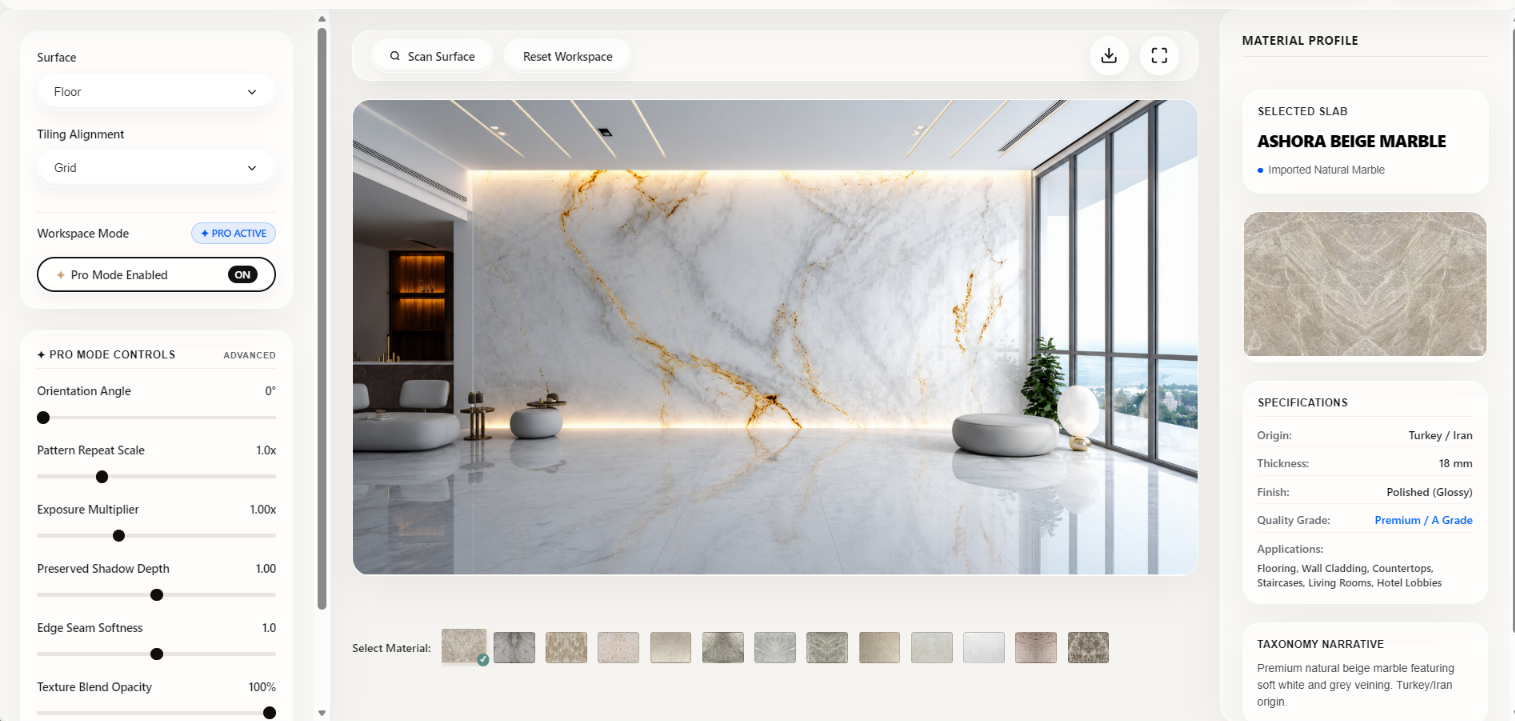
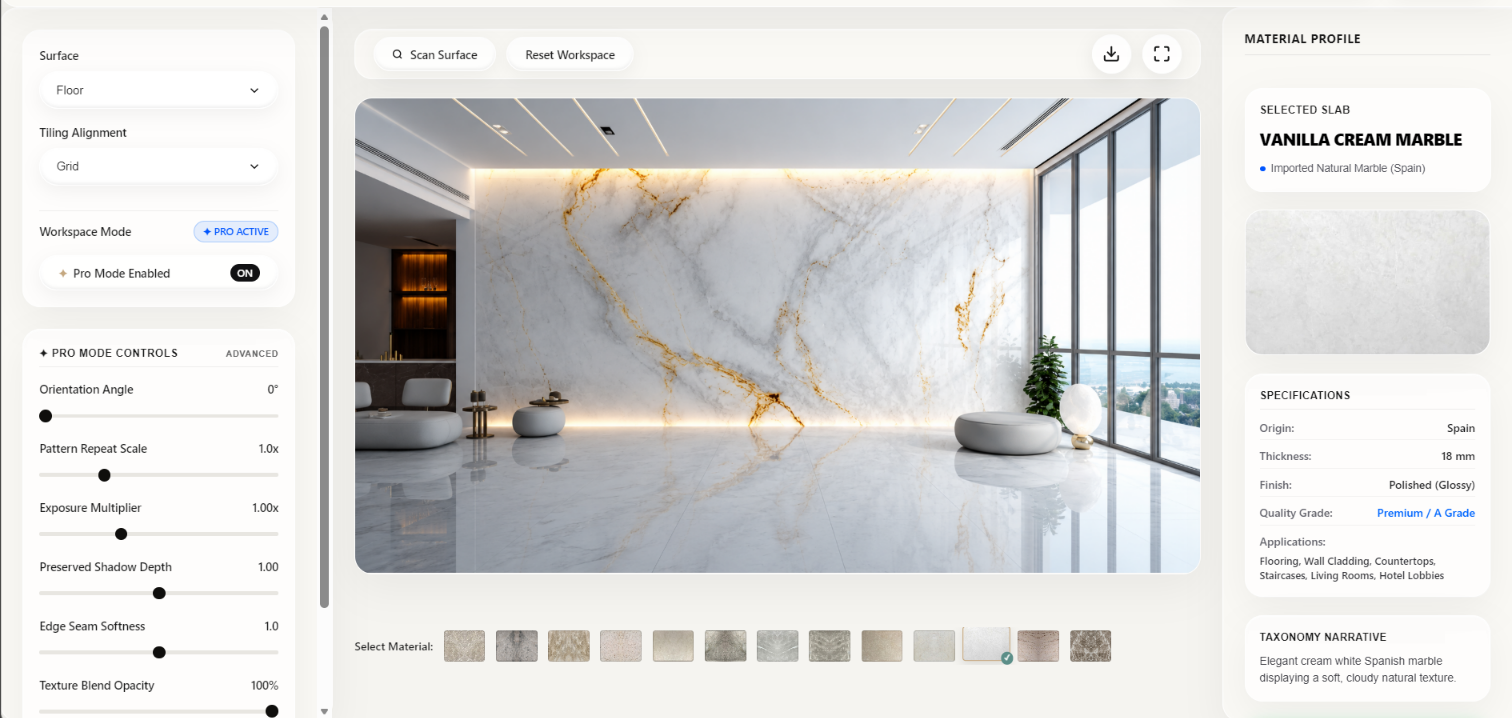
Fix hero section animation on first load, update 3D AI visualizer service copy, Jaipur origin, WhatsApp numbers, and pointer-events click isolation

diff --git a/index.html b/index.html
@@ -98,14 +98,11 @@
                     <div class="hero-metadata-table">
                         <div class="meta-row">
                             <span class="meta-label">About</span>
-                            <span class="meta-value">A premier purveyor of raw Makrana marbles, premium Italian granites, and custom handcrafted stone masterpieces.</span>
+                            <span class="meta-value">Providing a real-time 3D AI visualizer service for luxury marble and natural stone, allowing you to preview materials in your space instantly.</span>
                         </div>
                     </div>
                     <div class="hero-actions">
-                        <a href="#collections" class="hero-link">Request Information ↗</a>
-                        <a href="javascript:void(0)" class="hero-link ai-viz-hover-btn" data-hover-text="🔒 Coming Soon" style="text-decoration:none;">
-                            <span class="btn-text">Launch AI Visualizer</span>
-                        </a>
+                        <a href="https://wa.me/917852040620?text=Hello%20Uma%20Traderss%2C%20I%20would%20like%20to%20request%20information%20about%20your%203D%20AI%20Visualizer%20service%20and%20stone%20offerings." target="_blank" class="hero-link">Request Information ↗</a>
                     </div>
                 </div>
             </div>
@@ -118,11 +115,11 @@
                     <div class="hero-metadata-table">
                         <div class="meta-row">
                             <span class="meta-label">Origin</span>
-                            <span class="meta-value">Directly sourced from legendary quarries in Makrana, Rajasthan, delivering pristine heritage.</span>
+                            <span class="meta-value">Headquartered in Jaipur, Rajasthan — India's premier hub for stone architecture, design innovation, and digital spatial visualization.</span>
                         </div>
                     </div>
                     <div class="hero-actions">
-                        <a href="#collections" class="hero-link">Explore Materials ↗</a>
+                        <a href="#ai-feature-showcase" class="hero-link">Experience 3D Tech ↗</a>
                     </div>
                 </div>
             </div>
@@ -135,11 +132,11 @@
                     <div class="hero-metadata-table">
                         <div class="meta-row">
                             <span class="meta-label">Vision</span>
-                            <span class="meta-value">Crafting bespoke architectural stone installations for luxury homes, hotels, and landmarks across India.</span>
+                            <span class="meta-value">To revolutionize architectural stone selection through instant 3D AI room rendering, eliminating waste, guesswork, and design doubts.</span>
                         </div>
                     </div>
                     <div class="hero-actions">
-                        <a href="https://wa.me/919336366388?text=Hello%20Uma%20Traders%2C%20I%20would%20like%20to%20consult%20a%20stone%20specialist%20for%20my%20project." target="_blank" class="hero-link hero-link-special">Consult a Specialist ↗</a>
+                        <a href="https://wa.me/917852040620?text=Hello%20Uma%20Traderss%2C%20I%20would%20like%20to%20consult%20a%20stone%20specialist%20for%20my%20architectural%20project." target="_blank" class="hero-link hero-link-special">Consult a Specialist ↗</a>
                     </div>
                 </div>
             </div>
@@ -170,7 +167,7 @@
 
                 <!-- Bottom Action Box: Request Consultancy (3D Frosted Glass Pill) -->
                 <div class="ai-showcase-cta">
-                    <a href="https://wa.me/919336366388?text=Hello%20Uma%20Traders%2C%20I%20would%20like%20to%20request%20a%20stone%20consultancy%20for%20my%20space." target="_blank" class="glass-action-btn glass-btn-peach showcase-consult-btn">
+                    <a href="https://wa.me/917852040620?text=Hello%20Uma%20Traderss%2C%20I%20would%20like%20to%20request%20a%203D%20stone%20consultancy%20for%20my%20space." target="_blank" class="glass-action-btn glass-btn-peach showcase-consult-btn">
                         <span>📞 Request Consultancy</span>
                     </a>
                 </div>
@@ -179,7 +176,7 @@
             <!-- Right Column: Visual Sample Presentation -->
             <div class="ai-showcase-visual">
                 <div class="visusample-card-wrap">
-                    <img src="assets/visusample.png" alt="Uma Traders AI Visualizer Demo Interface" class="visusample-img">
+                    <img src="assets/visusample.png" alt="Uma Traderss AI Visualizer Demo Interface" class="visusample-img">
                 </div>
             </div>
         </div>
@@ -416,17 +413,14 @@
         <div class="about-container">
             <!-- LEFT: Text Content -->
             <div class="about-content">
-                <h2 class="section-title">A Legacy Written in Stone.</h2>
-                <p class="about-text">Since 1995, UMATRADERSS has established itself as a premier purveyor of luxury
-                    natural stone. Operating from our central hub in Gorakhpur, we curate geological history. We source
-                    the most pristine blocks from legendary quarries and meticulously craft them, shipping our
-                    masterpiece marble and granite to every region across India to elevate your architectural vision.
+                <h2 class="section-title">Real-Time 3D AI Visualizer Service.</h2>
+                <p class="about-text">Operating from Jaipur, Rajasthan, UMATRADERSS combines 30+ years of stone expertise with state-of-the-art 3D spatial AI. We provide an advanced real-time room visualizer service that renders authentic Makrana marble, granites, and tiles directly inside your space — helping homeowners, architects, and designers visualize final results, calculate slab counts, and estimate costs with zero guesswork.
                 </p>
                 <ul class="about-bullets">
-                    <li>30+ years of heritage in natural stone</li>
-                    <li>500+ luxury projects delivered across India</li>
-                    <li>Pan-India delivery network, zero damage guarantee</li>
-                    <li>Directly sourced from Makrana &amp; Italian quarries</li>
+                    <li>Real-time 3D spatial room visualization service</li>
+                    <li>Headquartered in Jaipur — India's stone &amp; design hub</li>
+                    <li>Automated slab count &amp; tile block cost estimation</li>
+                    <li>Pan-India digital consultancy &amp; expert support</li>
                 </ul>
                 <div style="margin-top: 40px;">
                     <a href="#contact" class="cta-button magnetic-btn">Start Your Project</a>
@@ -465,8 +459,8 @@
             <div class="footer-links">
                 <h3>Contact</h3>
                 <p>info@umatraders.com</p>
-                <p>+91 98765 43210</p>
-                <p>Makrana Road, Kishangarh</p>
+                <p>+91 7852040620</p>
+                <p>Jaipur, Rajasthan</p>
             </div>
             <div class="footer-links">
                 <h3>Social</h3>

diff --git a/js/script.js b/js/script.js
@@ -1,19 +1,4 @@
 document.addEventListener("DOMContentLoaded", () => {
-    // === PRELOADER ===
-    const preloader = document.getElementById('preloader');
-    if (sessionStorage.getItem('preloader_shown')) {
-        if (preloader) preloader.style.display = 'none';
-    } else {
-        sessionStorage.setItem('preloader_shown', 'true');
-        const preloaderTl = gsap.timeline();
-        preloaderTl
-            .to('.preloader-logo', { opacity: 1, duration: 0.8, ease: "power2.out" })
-            .to('.preloader-tagline', { opacity: 1, duration: 0.6 }, "-=0.3")
-            .to('.preloader-progress', { width: '100%', duration: 1.5, ease: "power2.inOut" }, "-=0.5")
-            .to(preloader, { yPercent: -100, duration: 0.8, ease: "power3.inOut", delay: 0.2, onComplete: () => { if (preloader) preloader.style.display = 'none'; } });
-    }
-
-
     gsap.registerPlugin(ScrollTrigger);
 
     // === LENIS SMOOTH SCROLL ===
@@ -21,6 +6,36 @@ document.addEventListener("DOMContentLoaded", () => {
     lenis.on('scroll', ScrollTrigger.update);
     gsap.ticker.add(time => lenis.raf(time * 1000));
     gsap.ticker.lagSmoothing(0, 0);
+
+    // === PRELOADER ===
+    const preloader = document.getElementById('preloader');
+    if (sessionStorage.getItem('preloader_shown')) {
+        if (preloader) preloader.style.display = 'none';
+        setTimeout(() => { ScrollTrigger.refresh(true); }, 100);
+    } else {
+        sessionStorage.setItem('preloader_shown', 'true');
+        window.scrollTo(0, 0);
+        lenis.stop(); // Lock scrolling while preloader is active
+
+        const preloaderTl = gsap.timeline();
+        preloaderTl
+            .to('.preloader-logo', { opacity: 1, duration: 0.8, ease: "power2.out" })
+            .to('.preloader-tagline', { opacity: 1, duration: 0.6 }, "-=0.3")
+            .to('.preloader-progress', { width: '100%', duration: 1.5, ease: "power2.inOut" }, "-=0.5")
+            .to(preloader, { 
+                yPercent: -100, 
+                duration: 0.8, 
+                ease: "power3.inOut", 
+                delay: 0.2, 
+                onComplete: () => { 
+                    if (preloader) preloader.style.display = 'none';
+                    lenis.start(); // Re-enable scrolling after preloader exits
+                    window.scrollTo(0, 0);
+                    ScrollTrigger.refresh(true);
+                    gsap.set('.sequence-1, .sequence-1-bg', { opacity: 1, scale: 1, filter: "blur(0px)" });
+                } 
+            });
+    }
 
     // === THREE.JS HERO ===
     const canvas = document.getElementById('hero-canvas');
@@ -65,9 +80,15 @@ document.addEventListener("DOMContentLoaded", () => {
     const pl1 = new THREE.PointLight(0xffeedd, 2, 50); pl1.position.set(-10, 5, 10); scene.add(pl1);
     const pl2 = new THREE.PointLight(0xaaccff, 2.5, 50); pl2.position.set(10, -5, -5); scene.add(pl2);
 
-    window.addEventListener('resize', () => {
-        camera.aspect = window.innerWidth / window.innerHeight; camera.updateProjectionMatrix();
+    function updateCanvasSize() {
+        camera.aspect = window.innerWidth / window.innerHeight;
+        camera.updateProjectionMatrix();
         renderer.setSize(window.innerWidth, window.innerHeight);
+    }
+    window.addEventListener('resize', updateCanvasSize);
+    window.addEventListener('load', () => {
+        updateCanvasSize();
+        ScrollTrigger.refresh(true);
     });
 
     let isHeroVisible = true;
@@ -79,9 +100,19 @@ document.addEventListener("DOMContentLoaded", () => {
     // === HERO SCROLL ANIMATION ===
     slabGroup.position.set(0, -2.5, -5);
     slabGroup.rotation.set(0.15, 0.4, 0.05);
-    // Comment out vertical shift as our grid is absolute fullscreen 100vh
-    // gsap.set('.hero-text-overlay', { yPercent: -50 });
     gsap.set('.hero-text-overlay', { transform: 'none' });
+    gsap.set('.sequence-1, .sequence-1-bg', { opacity: 1, scale: 1, filter: "blur(0px)" });
+
+    function setActiveSequence(seqNumber) {
+        document.querySelectorAll('.hero-text-overlay').forEach((el, index) => {
+            if (index + 1 === seqNumber) {
+                el.classList.add('active-sequence');
+            } else {
+                el.classList.remove('active-sequence');
+            }
+        });
+    }
+    setActiveSequence(1);
 
     const tl = gsap.timeline({
         scrollTrigger: {
@@ -89,10 +120,14 @@ document.addEventListener("DOMContentLoaded", () => {
             start: "top top",
             end: "bottom bottom",
             scrub: 0.1,
-            onLeave: () => {
-                const collections = document.getElementById('collections');
-                if (collections) {
-                    collections.scrollIntoView({ behavior: 'smooth' });
+            onUpdate: (self) => {
+                const p = self.progress;
+                if (p < 0.3) {
+                    setActiveSequence(1);
+                } else if (p >= 0.3 && p < 0.65) {
+                    setActiveSequence(2);
+                } else {
+                    setActiveSequence(3);
                 }
             }
         }
@@ -103,7 +138,7 @@ document.addEventListener("DOMContentLoaded", () => {
         .fromTo(".sequence-1, .sequence-1-bg", { opacity: 1, scale: 1, filter: "blur(0px)" }, { opacity: 1, scale: 1, filter: "blur(0px)", ease: "none", duration: 0.1 }, 0)
         .to(".sequence-1, .sequence-1-bg", { opacity: 0, scale: 1.1, filter: "blur(10px)", ease: "power2.in", duration: 0.1 }, 0.2)
         .to(slabGroup.position, { z: 5, x: -2.8, y: 0, ease: "power1.inOut", duration: 0.3 }, 0.35)
-        .to(slabGroup.rotation, { y: Math.PI * 2.5, x: -0.2, z: -0.1, ease: "none", duration: 0.3 }, 0.35)
+        .to(slabGroup.rotation, { y: Math.PI * 3.5, x: -0.2, z: -0.1, ease: "none", duration: 0.3 }, 0.35)
         .to(mat2, { opacity: 1, ease: "none", duration: 0.15 }, 0.425)
         .fromTo(".sequence-2, .sequence-2-bg", { opacity: 0, scale: 0.9, filter: "blur(10px)" }, { opacity: 1, scale: 1, filter: "blur(0px)", ease: "power2.out", duration: 0.1 }, 0.4)
         .to(".sequence-2, .sequence-2-bg", { opacity: 0, scale: 1.1, filter: "blur(10px)", ease: "power2.in", duration: 0.1 }, 0.55)
@@ -617,5 +652,19 @@ document.addEventListener("DOMContentLoaded", () => {
         btn.addEventListener('click', e => e.preventDefault());
     });
 
+    // === SMOOTH ANCHOR NAVIGATION WITH LENIS ===
+    document.querySelectorAll('a[href^="#"]').forEach(anchor => {
+        anchor.addEventListener('click', function (e) {
+            const targetId = this.getAttribute('href');
+            if (targetId && targetId !== '#') {
+                const targetEl = document.querySelector(targetId);
+                if (targetEl) {
+                    e.preventDefault();
+                    lenis.scrollTo(targetEl, { duration: 1.2 });
+                }
+            }
+        });
+    });
 
 });
+

diff --git a/visualizer.html b/visualizer.html
@@ -4,11 +4,11 @@
 <head>
     <meta charset="UTF-8">
     <meta name="viewport" content="width=device-width, initial-scale=1.0">
-    <title>AI Design Studio | Uma Traders</title>
+    <title>AI Design Studio | Uma Traderss</title>
     <meta name="description"
         content="Prisitne Makrana marble and premium stone visualizer dashboard using custom deep learning engine.">
-    <meta name="author" content="Uma Traders">
-    <meta name="copyright" content="© 2024-2026 Uma Traders. All Rights Reserved.">
+    <meta name="author" content="Uma Traderss">
+    <meta name="copyright" content="© 2024-2026 Uma Traderss. All Rights Reserved.">
     <meta name="robots" content="noarchive">
     <link rel="preconnect" href="https://fonts.googleapis.com">
     <link rel="preconnect" href="https://fonts.gstatic.com" crossorigin>
@@ -2139,7 +2139,7 @@
         <!-- Header Bar -->
         <div class="viz-header-bar">
             <a href="/" class="viz-brand-block">
-                <img src="assets/logo.jpeg" class="viz-brand-logo" alt="Uma Traders Logo">
+                <img src="assets/logo.jpeg" class="viz-brand-logo" alt="Uma Traderss Logo">
             </a>
 
             <div class="viz-header-center-title">
@@ -2533,7 +2533,7 @@
                     <div class="viz-viewport-loading-overlay" id="viz-loading" style="display:none;">
                         <div class="viz-viewport-spinner"></div>
                         <h4 class="viz-viewport-loading-text" id="viz-loading-text">Ingesting Room Photo…</h4>
-                        <span class="viz-viewport-loading-sub">Uma Traders Neural GPU Engine</span>
+                        <span class="viz-viewport-loading-sub">Uma Traderss Neural GPU Engine</span>
                     </div>
 
                 </div>

diff --git a/js/visualizer.js b/js/visualizer.js
@@ -643,7 +643,7 @@ document.addEventListener("DOMContentLoaded", () => {
 
                 <!-- Call to action inquiries -->
                 <div style="display: flex; flex-direction: column; gap: 8px;">
-                    <a href="https://wa.me/919304277935?text=Hi%20Uma%20Traders,%20I%20am%20interested%20in%20the%20${encodeURIComponent(mat.name)}%20via%20your%20AI%20Visualizer." 
+                    <a href="https://wa.me/917852040620?text=Hi%20Uma%20Traderss,%20I%20am%20interested%20in%20the%20${encodeURIComponent(mat.name)}%20via%20your%20AI%20Visualizer." 
                        target="_blank"
                        style="display: flex; align-items: center; justify-content: center; gap: 8px; background: #25d366; color: white; border: none; padding: 12px 20px; border-radius: 9999px; font-family: 'Inter', sans-serif; font-size: 0.82rem; font-weight: 600; text-decoration: none; text-align: center; transition: all 0.3s ease; box-shadow: 0 4px 16px rgba(37, 211, 102, 0.3);"
                        onmouseover="this.style.transform='translateY(-2px)'; this.style.boxShadow='0 8px 20px rgba(37, 211, 102, 0.45)';"

diff --git a/css/styles.css b/css/styles.css
@@ -86,7 +86,7 @@ h3 {
 /* 3D Hero Section */
 .hero-container {
     position: relative;
-    height: 120vh;
+    height: 280vh;
     background: #000;
 }
 
@@ -117,11 +117,20 @@ h3 {
     width: 100%;
     text-align: center;
     z-index: 3;
-    pointer-events: none;
+    pointer-events: none !important;
     opacity: 0;
     /* Hidden by default, controlled by GSAP */
     padding: 0 20px;
     will-change: transform, opacity;
+}
+
+.hero-text-overlay * {
+    pointer-events: none !important;
+}
+
+.hero-text-overlay.active-sequence,
+.hero-text-overlay.active-sequence * {
+    pointer-events: auto !important;
 }
 
 .hero-title {
@@ -2629,7 +2638,7 @@ h3 {
 }
 
 /* ===========================================================================
-   UMA TRADERS — ELITE MINIMALIST LIGHT-MODE EDITORIAL SYSTEM
+   UMA TRADERSS — ELITE MINIMALIST LIGHT-MODE EDITORIAL SYSTEM
    (Inspired by Waterworks, Dribbble & Figma Professional Design Layouts)
    =========================================================================== */
 

diff --git a/server.py b/server.py
@@ -1,5 +1,5 @@
 """
-Uma Traders — Master Pattern Engine (Optimised)
+Uma Traderss — Master Pattern Engine (Optimised)
 ================================================
 Key changes vs original
 ------------------------
@@ -95,7 +95,7 @@ log.info(f"Thread pool: {_WORKERS} workers")
 # ---------------------------------------------------------------------------
 # 2.  FASTAPI APP
 # ---------------------------------------------------------------------------
-app = FastAPI(title="Uma Traders Master Pattern Engine")
+app = FastAPI(title="Uma Traderss Master Pattern Engine")
 app.add_middleware(
     CORSMiddleware,
     allow_origins=["*"],

diff --git a/README.md b/README.md
@@ -1,4 +1,4 @@
-# Uma Traders - AI-Powered Tiles Visualizer
+# Uma Traderss - AI-Powered Tiles Visualizer
 
 An industry-grade tiles visualization platform featuring automatic AI floor segmentation, manual paint/refine tools, perspective warping, and integrated subscription billing.
 
